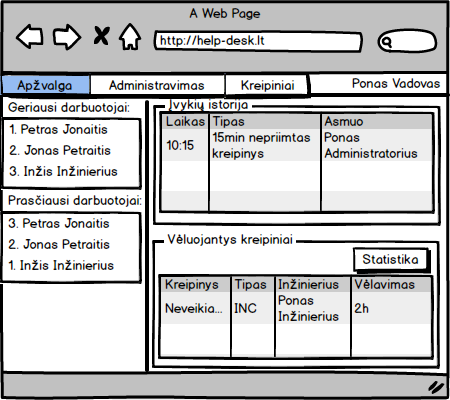
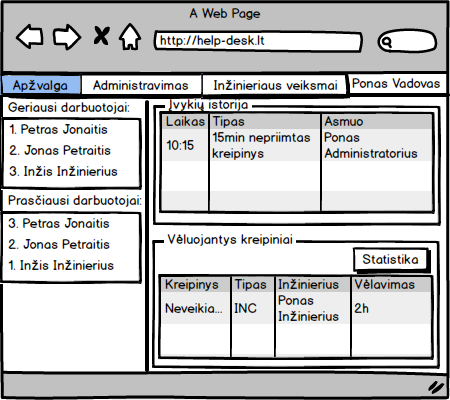
stuff

Changed region(s): [[0.0311, 0.18, 0.7778, 0.27]]

diff --git a/docs/zmogaus-kompiuterio-saveika/hierarch-uzd-analize-ir-maketas/analize.tex b/docs/zmogaus-kompiuterio-saveika/hierarch-uzd-analize-ir-maketas/analize.tex
@@ -1,5 +1,26 @@
 \section{Analizė}
 
+\subsection{Bendrų užduočių analizė}
+
+	\subsubsection{Prisijungimas}
+	
+		\begin{itemize}
+			\item \textbf{Įvestis}
+				\subitem {Prisijungimo vardas}
+				\subitem {Slaptažodis}
+			\item \textbf{Išvestis} 
+				\subitem {Vartotojas prisijungęs prie sistemos}
+		\end{itemize}
+		
+		
+	\paragraph{Užduoties dekompozicija}
+	
+	\insertPicture[0.8]{prisijungti}{Kreipinio išsprendimo analize}
+	
+	Užduoties dekompozicijai panaudojome Hierarchinės Užduočių Analizės metodus.
+	Kreipinio išsprendimo užduotį skirstome hierarchiškai pagal abstraktumo lygmenis. 
+	Žr. \referToPicture{prisijungti}
+
 \subsection{Inžinieriaus užduočių analizė}
 	
 	\subsubsection{Kreipinio išsprendimas}
@@ -113,6 +134,26 @@
 	
 	Žr. \referToPicture{vadovas-perskirti}
 	
+	\subsubsection{Peržiūrėti statistiką}
+	%% TODO: Statistikos analizė
+
+		\begin{itemize}
+			\item \textbf{Įvestis}
+				\subitem {Sistemoje esantys duomenys}
+			\item \textbf{Išvestis} 
+				\subitem {Pateikti statistiniai duomenys}
+		\end{itemize}
+		
+		
+	\paragraph{Užduoties dekompozicija}
+	
+	\insertPicture[0.6]{vadovas-statistika}{Kreipinio išsprendimo analize}
+
+	Užduoties dekompozicijai panaudojome Hierarchinės Užduočių Analizės metodus.
+	Kreipinio išsprendimo užduotį skirstome hierarchiškai pagal abstraktumo lygmenis. 
+	
+	Žr. \referToPicture{vadovas-statistika}
+	
  	
 \subsection{Administratoriaus užduočių analizė}
 
@@ -130,7 +171,7 @@
 
 	\insertPicture[0.6]{admin-registruoti.png}{Kreipinio registravimo analizė}
 
-	Užduoties dekompozicjai panaudojome Hierarchinės Užduočių Analizės metodus.
+	Užduoties dekompozicijai panaudojome Hierarchinės Užduočių Analizės metodus.
 	Žr. \referToPicture{admin-registruoti.png}
 	
 	
@@ -149,7 +190,7 @@
 
 	\insertPicture[0.6]{admin-priskirti.png}{Kreipinio paskyrimo inžinieriui analizė}
 	
-	Užduoties dekompozicjai panaudojome Hierarchinės Užduočių Analizės metodus.
+	Užduoties dekompozicijai panaudojome Hierarchinės Užduočių Analizės metodus.
 	Žr. \referToPicture{admin-priskirti}
 
 	
@@ -157,7 +198,7 @@
 
 		\begin{itemize}
 			\item \textbf{Įvestis}
-				\subitem {Registo pridėjimas/šalinimas/redagavimas}
+				\subitem {Registro pridėjimas/šalinimas/redagavimas}
 			\item \textbf{Išvestis} 
 				\subitem {pakeisti sistemos duomenis}
 		\end{itemize}
@@ -213,7 +254,7 @@
 		
 		\begin{itemize}
 			\item \textbf{Įvestis}
-				\subitem {Tliktas kreipinys}
+				\subitem {Atliktas kreipinys}
 			\item \textbf{Išvestis} 
 				\subitem {Pateiktas įvertinimas}
 		\end{itemize}

diff --git a/docs/zmogaus-kompiuterio-saveika/hierarch-uzd-analize-ir-maketas/maketas.tex b/docs/zmogaus-kompiuterio-saveika/hierarch-uzd-analize-ir-maketas/maketas.tex
@@ -49,7 +49,14 @@
 	Paspaudus mygtuką "Kreipiniai" pereinama į Inžinieriaus vaizdą (žr. Inžinieriaus aprašymą).
 	Pradinio Vadovo interfeiso maketas pateiktas \referToPicture{maketas-vadovas-startas.png}
 	
-	\textit{Pastaba: "Apžvalga" - pradinis ekranas - rezervuotas papildomam funkcionalumui, pagal kurį dokumentas bus papildytas.}
+	\subsubsection{Peržiūrėti statistiką}	
+	
+	\insertPicture[0.8]{maketas-statistika}{Vadovo pradinis vaizdas} 
+	
+	Vadovui pasiekti vėluojančių kreipinių statistiką galima iš "Apžvalgos" ekrano, paspaudus statistikos mygtuką.
+	Statistika pateikiama diagramomis bei sąrašais. Žr. \referToPicture{maketas-statistika}
+	
+	\textit{Pastaba: "Apžvalga" - vadovo pradinis ekranas - rezervuotas papildomam funkcionalumui, pagal kurį dokumentas bus papildytas.}
 	
 \subsection{Klientas}
 
